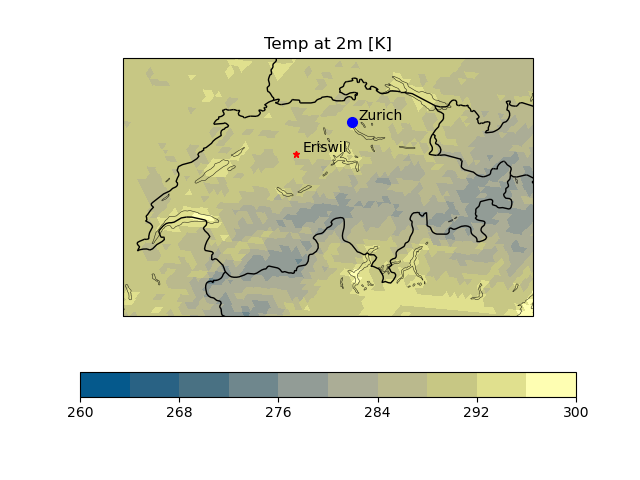
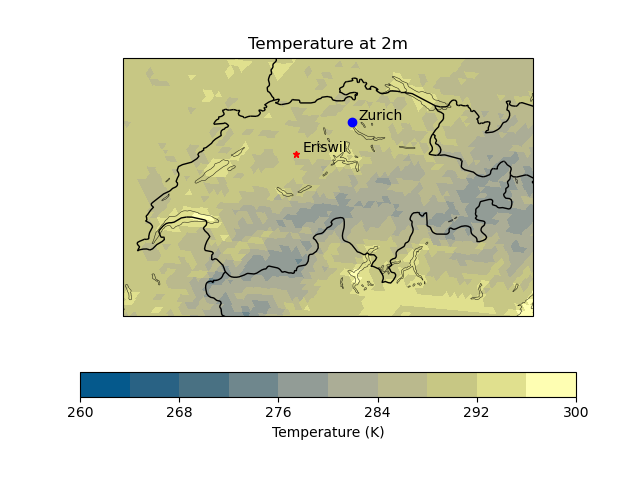
Add colorbar label

Changed region(s): [[0.375, 0.0625, 0.625, 0.125], [0.4375, 0.875, 0.5938, 0.9375]]

diff --git a/mapplot/mapplot.py b/mapplot/mapplot.py
@@ -59,6 +59,7 @@ if __name__ == "__main__":
                 'map, add_grid (opt): set false to remove grid with lat and lon labels\n'+\
                 'map, title (opt): title of plot\n'+\
                 'map, cmap (opt): name of colorbar\n'+\
+                'map, clabel (opt): label of colorbar\n'+\
                 'coord, name (opt): add markers at certain locations (several inputs possible)\n'+\
                 'coord, lon/lat (opt): lon and lat of the locations\n'+\
                 'coord, marker (opt): marker specifications for all locations\n'+\
@@ -133,6 +134,8 @@ if __name__ == "__main__":
             pp.update(title=map['title'])
         if 'cmap' in map.keys():
             pp.update(cmap=map['cmap'])
+        if 'clabel' in map.keys():
+            pp.update(clabel=map['clabel'])
         pp.update(borders=True, lakes=True, rivers=False)
 
         # go to matplotlib level

diff --git a/modules/config.py b/modules/config.py
@@ -70,6 +70,8 @@ def read_config(config_path):
         map['projection'] = config.get('map', 'projection')
     if config.has_option('map', 'title'):
         map['title'] = config.get('map', 'title')
+    if config.has_option('map', 'clabel'):
+        map['clabel'] = config.get('map', 'clabel')
     if config.has_option('map', 'sig'):
         map['sig'] = config.getint('map', 'sig')
     else:
